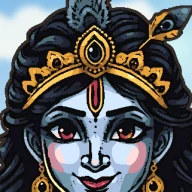
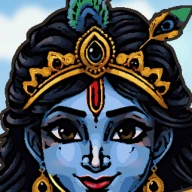
Painted place scenes and a repaired Krishna portrait (#3)
Place scenes repainted in a soft painted animation style with watercolour skies, clouds, meadows and comic ink outlines. Krishna's portrait rebuilt with a clear blue face and hands, natural eyes, coloured feathers and a long flute.

diff --git a/js/sketch.js b/js/sketch.js
@@ -1,33 +1,39 @@
-// Pencil-and-wash sketches of each place, composed from hand-drawn motifs.
-// Ink lines draw themselves in when the sketch opens.
+// Painted scenes of each place in a soft, hand-painted animation style:
+// watercolour skies and meadows, solid painted shapes with comic ink outlines.
+// Ink lines draw themselves in when the scene opens.
 
 import { PLACES } from './places.js';
 
 let seq = 0;
 let delay = 0;
+let gid = 'sk';
 
 const ink = (d, w = 1.6) => {
-  delay += 0.035;
-  return `<path class="ink" pathLength="1" d="${d}" stroke-width="${w}" style="animation-delay:${delay.toFixed(2)}s"/>`;
+  delay += 0.025;
+  return `<path class="ink" pathLength="1" d="${d}" fill="none" stroke="#2E2A26" stroke-width="${(w * 1.25).toFixed(2)}" style="animation-delay:${delay.toFixed(2)}s"/>`;
 };
-const wash = (d, color, op = 0.35) => `<path class="wash" d="${d}" fill="${color}" stroke="none" opacity="${op}"/>`;
+// White highlight strokes, for ripples on water.
+const shine = (d, w = 1.4) => `<path d="${d}" fill="none" stroke="#FFFFFF" stroke-width="${w}" stroke-linecap="round" opacity=".8"/>`;
+// A solid painted fill with a soft light from above.
+const wash = (d, color) => `<path class="wash" d="${d}" fill="${color}" stroke="none"/><path class="wash" d="${d}" fill="url(#${gid}-gl)" stroke="none"/>`;
 const at = (x, y, s, body, rot = 0) => `<g transform="translate(${x} ${y}) rotate(${rot}) scale(${s})">${body}</g>`;
 const circ = (cx, cy, r) => `M${cx - r} ${cy} a ${r} ${r} 0 1 0 ${2 * r} 0 a ${r} ${r} 0 1 0 ${-2 * r} 0`;
 const rect = (x, y, w, h) => `M${x} ${y} h${w} v${h} h${-w} Z`;
 
 const M = {
-  ground: () => wash('M0 156 C 60 150, 110 160, 170 154 S 280 150, 320 156 V180 H0 Z', '#C9A46A', 0.3)
-    + ink('M0 156 C 60 150, 110 160, 170 154 S 280 150, 320 156', 1.4)
-    + ink('M30 160 l3 -6 M36 161 l-1 -7 M120 158 l2 -6 M126 159 l-2 -6 M268 158 l3 -6 M300 160 l-1 -6', 1),
-  hills: () => wash('M0 122 C 40 98, 80 98, 120 118 C 150 102, 190 94, 230 114 C 260 102, 300 104, 320 114 V160 H0 Z', '#7BAF7B', 0.25)
+  ground: () => wash('M0 156 C 60 150, 110 160, 170 154 S 280 150, 320 156 V180 H0 Z', '#79B861')
+    + `<path d="M0 166 C 80 160, 160 170, 320 164 V180 H0 Z" fill="#5E9C4E"/>`
+    + `<g stroke="#3F7A3E" stroke-width="1.2" stroke-linecap="round" fill="none">${[18, 52, 96, 134, 188, 226, 262, 300].map((x, k) => `<path d="M${x} ${164 + (k % 2) * 6} q 1 -6 3 -8 M${x + 3} ${164 + (k % 2) * 6} q 0 -5 -3 -7"/>`).join('')}</g>`
+    + `<g>${[40, 112, 176, 244, 288].map((x, k) => `<circle cx="${x}" cy="${168 + (k % 2) * 5}" r="1.8" fill="${k % 2 ? '#F7B6C8' : '#FFF6E0'}"/>`).join('')}</g>`
+    + ink('M0 156 C 60 150, 110 160, 170 154 S 280 150, 320 156', 1.2),
+  hills: () => wash('M0 122 C 40 98, 80 98, 120 118 C 150 102, 190 94, 230 114 C 260 102, 300 104, 320 114 V160 H0 Z', '#8DC27A')
+    + `<g fill="#6EA862">${[[40, 114, 9], [52, 116, 7], [210, 108, 10], [224, 112, 7]].map(([x, y, r]) => `<circle cx="${x}" cy="${y}" r="${r}"/>`).join('')}</g>`
     + ink('M0 122 C 40 98, 80 98, 120 118 C 150 102, 190 94, 230 114 C 260 102, 300 104, 320 114', 1.1),
-  sun: (x, y, r = 14, low = false) => wash(circ(x, y, r + 6), low ? '#E9573F' : '#F2B632', 0.35)
-    + ink(circ(x, y, r), 1.5)
-    + ink(Array.from({ length: 8 }, (_, k) => {
-      const a = (k * Math.PI) / 4;
-      return `M${(x + (r + 4) * Math.cos(a)).toFixed(1)} ${(y + (r + 4) * Math.sin(a)).toFixed(1)} L${(x + (r + 10) * Math.cos(a)).toFixed(1)} ${(y + (r + 10) * Math.sin(a)).toFixed(1)}`;
-    }).join(' '), 1.2),
-  moon: (x, y) => wash(circ(x, y, 18), '#F6E7B0', 0.4) + ink(`M${x + 6} ${y - 15} A 16 16 0 1 0 ${x + 6} ${y + 15} A 12 12 0 1 1 ${x + 6} ${y - 15} Z`, 1.4),
+  sun: (x, y, r = 14, low = false) => `<circle cx="${x}" cy="${y}" r="${r * 3}" fill="url(#${gid}-glow)"/>`
+    + `<circle cx="${x}" cy="${y}" r="${r}" fill="${low ? '#FF9A5C' : '#FFE08A'}"/><circle cx="${x - r * 0.25}" cy="${y - r * 0.25}" r="${r * 0.6}" fill="${low ? '#FFC08A' : '#FFF4C8'}"/>`,
+  moon: (x, y) => `<circle cx="${x}" cy="${y}" r="40" fill="url(#${gid}-glow)"/>`
+    + `<path d="M${x + 6} ${y - 15} A 16 16 0 1 0 ${x + 6} ${y + 15} A 12 12 0 1 1 ${x + 6} ${y - 15} Z" fill="#FFF3C4"/>`
+    + `<g fill="#FFFFFF">${[[-120, -10], [-60, 20], [-160, 30], [30, 40], [-30, -20]].map(([dx, dy]) => `<circle cx="${x + dx}" cy="${y + dy}" r="1.3"/>`).join('')}</g>`,
   palace: (x, y, s = 1) => at(x, y, s, wash('M-60 0 V-40 H60 V0 Z M-24 -40 Q-24 -70 0 -78 Q24 -70 24 -40 Z', '#E9B949', 0.35)
     + ink('M-60 0 V-40 H60 V0 M-66 0 H66 M-70 5 H70')
     + ink('M-24 -40 Q-24 -70 0 -78 Q24 -70 24 -40 M0 -78 V-81 M-3.5 -81 Q0 -88 3.5 -81 Z M0 -86 V-92')
@@ -57,16 +63,18 @@ const M = {
   temple: (x, y, s = 1) => at(x, y, s, wash('M-22 0 V-18 H22 V0 Z M-18 -18 C -18 -40, -8 -58, 0 -64 C 8 -58, 18 -40, 18 -18 Z', '#E8893A', 0.35)
     + ink('M-22 0 V-18 H22 V0 M-26 0 H26 M-6 0 V-10 Q0 -15 6 -10 V0')
     + ink('M-18 -18 C -18 -40, -8 -58, 0 -64 C 8 -58, 18 -40, 18 -18 M-16 -30 H16 M-12 -44 H12 M-6 -64 H6 M0 -64 V-74 M0 -74 L10 -71 L0 -68', 1.4)),
-  river: (y) => wash(`M0 ${y - 4} C 40 ${y - 10}, 80 ${y + 2}, 120 ${y - 4} S 200 ${y - 10}, 240 ${y - 4} S 300 ${y + 2}, 320 ${y - 4} V180 H0 Z`, '#5FA8CC', 0.35)
-    + [0, 12, 24].map((d) => ink(`M0 ${y + d} C 40 ${y + d - 6}, 80 ${y + d + 6}, 120 ${y + d} S 200 ${y + d - 6}, 240 ${y + d} S 300 ${y + d + 6}, 320 ${y + d}`, 1.1)).join(''),
+  river: (y) => `<path d="M0 ${y - 4} C 40 ${y - 10}, 80 ${y + 2}, 120 ${y - 4} S 200 ${y - 10}, 240 ${y - 4} S 300 ${y + 2}, 320 ${y - 4} V180 H0 Z" fill="url(#${gid}-water)"/>`
+    + ink(`M0 ${y - 4} C 40 ${y - 10}, 80 ${y + 2}, 120 ${y - 4} S 200 ${y - 10}, 240 ${y - 4} S 300 ${y + 2}, 320 ${y - 4}`, 1.1)
+    + [8, 20, 32].map((d, k) => shine(`M${20 + k * 30} ${y + d} q 10 -4 20 0 M${150 + k * 20} ${y + d + 3} q 12 -4 24 0 M${250 - k * 10} ${y + d} q 9 -3 18 0`)).join(''),
   lotus: (x, y, s = 1) => at(x, y, s, wash('M0 0 C -10 -4, -18 -12, -20 -20 C -10 -18, -6 -22, 0 -26 C 6 -22, 10 -18, 20 -20 C 18 -12, 10 -4, 0 0 Z', '#E86A8E', 0.45)
     + ink('M0 0 C -6 -8, -6 -18, 0 -26 C 6 -18, 6 -8, 0 0 M0 0 C -10 -4, -18 -12, -20 -20 C -10 -18, -4 -10, 0 0 M0 0 C 10 -4, 18 -12, 20 -20 C 10 -18, 4 -10, 0 0 M-22 4 C -10 8, 10 8, 22 4', 1.3)),
   fishTarget: (x, y, s = 1) => at(x, y, s, ink('M0 60 V16')
     + ink(`${circ(0, 0, 16)} M-16 0 H16 M0 -16 V16 M-11 -11 L11 11 M11 -11 L-11 11`, 1.2)
     + wash('M-14 -24 C -6 -32, 8 -32, 14 -24 C 8 -18, -6 -18, -14 -24 Z', '#5FA8CC', 0.5)
     + ink('M-14 -24 C -6 -32, 8 -32, 14 -24 C 8 -18, -6 -18, -14 -24 Z M14 -24 L22 -30 L22 -18 Z M-8 -25 l0.1 0', 1.3)),
-  pool: (x, y) => wash(`M${x - 62} ${y} C ${x - 62} ${y - 12}, ${x + 62} ${y - 12}, ${x + 62} ${y} C ${x + 62} ${y + 12}, ${x - 62} ${y + 12}, ${x - 62} ${y} Z`, '#5FA8CC', 0.4)
-    + ink(`M${x - 62} ${y} C ${x - 62} ${y - 12}, ${x + 62} ${y - 12}, ${x + 62} ${y} C ${x + 62} ${y + 12}, ${x - 62} ${y + 12}, ${x - 62} ${y} Z M${x - 30} ${y} q 8 -3 16 0 M${x + 10} ${y + 2} q 8 -3 16 0`, 1.2),
+  pool: (x, y) => `<path d="M${x - 62} ${y} C ${x - 62} ${y - 12}, ${x + 62} ${y - 12}, ${x + 62} ${y} C ${x + 62} ${y + 12}, ${x - 62} ${y + 12}, ${x - 62} ${y} Z" fill="url(#${gid}-water)"/>`
+    + ink(`M${x - 62} ${y} C ${x - 62} ${y - 12}, ${x + 62} ${y - 12}, ${x + 62} ${y} C ${x + 62} ${y + 12}, ${x - 62} ${y + 12}, ${x - 62} ${y} Z`, 1.2)
+    + shine(`M${x - 30} ${y} q 8 -3 16 0 M${x + 10} ${y + 2} q 8 -3 16 0`),
   bow: (x, y, s = 1) => at(x, y, s, ink('M-4 -36 C 22 -18, 22 18, -4 36', 2) + ink('M-4 -36 L -4 36', 0.9) + ink('M-26 0 H 26 M20 -5 L27 0 L20 5 M-26 0 l-5 -4 M-26 0 l-5 4', 1.3)),
   cow: (x, y, s = 1) => at(x, y - 12 * s, s, wash('M-26 -10 C -26 -26, 18 -28, 22 -14 C 24 -6, 18 -2, 14 -2 H-20 C -26 -2, -27 -6, -26 -10 Z', '#FBF3E0', 0.9)
     + ink('M-26 -10 C -26 -26, 18 -28, 22 -14 C 24 -6, 18 -2, 14 -2 H-20 C -26 -2, -27 -6, -26 -10 Z')
@@ -109,8 +117,8 @@ const M = {
   pot: (x, y, s = 1) => at(x, y, s, wash('M-26 -38 C -30 -10, -20 0, 0 0 C 20 0, 30 -10, 26 -38 Z', '#B87A14', 0.4)
     + ink('M-26 -38 C -30 -10, -20 0, 0 0 C 20 0, 30 -10, 26 -38 M-30 -40 H30 M-28 -24 H28')
     + wash('M-20 -40 C -14 -56, 14 -56, 20 -40 Z', '#FBF3E0', 0.8) + ink('M-20 -40 C -14 -56, 14 -56, 20 -40', 1.2)),
-  field: () => wash('M0 120 H320 V180 H0 Z', '#C9A46A', 0.3) + ink('M0 120 H320', 1.2)
-    + ink([-140, -80, -30, 20, 70, 130, 200].map((d) => `M${160 + d * 2.2} 180 L ${160 + d * 0.4} 122`).join(' '), 1),
+  field: () => wash('M0 120 H320 V180 H0 Z', '#E6C46A') + ink('M0 120 H320', 1.2)
+    + `<g stroke="#C79A3E" stroke-width="3" opacity=".6">${[-140, -80, -30, 20, 70, 130, 200].map((d) => `<path d="M${160 + d * 2.2} 180 L ${160 + d * 0.4} 122"/>`).join('')}</g>`,
   pillars: () => ink('M20 40 H300 M20 46 H300 M20 160 H300', 1.4)
     + ink([40, 100, 220, 280].map((x) => `M${x} 46 V160 M${x + 10} 46 V160 M${x - 4} 52 H${x + 14} M${x - 4} 154 H${x + 14}`).join(' '), 1.2)
     + ink('M50 46 Q 75 70 100 46 M230 46 Q 255 70 280 46', 1),
@@ -125,11 +133,11 @@ const M = {
     + ink('M-62 -30 C -42 -72, 42 -72, 62 -30 C 30 -36, -30 -36, -62 -30 Z M-30 -50 l 4 -8 l 4 8 M10 -56 l 4 -8 l 4 8 M34 -44 l 3 -6 l 3 6')
     + ink('M0 -32 V 34 M-4 34 H4', 1.6)
     + ink('M-40 30 q 4 -10 8 0 M-24 32 q 4 -10 8 0 M20 32 q 4 -10 8 0 M36 30 q 4 -10 8 0', 1.2)),
-  confluence: () => wash('M0 30 C 80 60, 120 100, 150 180 H190 C 200 100, 260 50, 320 30 V 0 H 300 C 240 30, 190 70, 170 130 C 150 80, 80 30, 0 0 Z', '#5FA8CC', 0.35)
+  confluence: () => `<path d="M0 30 C 80 60, 120 100, 150 180 H190 C 200 100, 260 50, 320 30 V 0 H 300 C 240 30, 190 70, 170 130 C 150 80, 80 30, 0 0 Z" fill="url(#${gid}-water)"/>`
     + ink('M0 30 C 80 60, 120 100, 150 180 M0 0 C 80 30, 150 80, 170 130 M320 30 C 260 50, 200 100, 190 180 M300 0 C 240 30, 190 70, 170 130', 1.2)
     + ink('M150 150 q 8 -4 16 0 M160 120 q 6 -3 12 0', 0.9),
-  sea: (y) => wash(`M0 ${y} H320 V180 H0 Z`, '#2B7FA6', 0.3)
-    + [0, 14, 28].map((d) => ink(Array.from({ length: 9 }, (_, k) => `M${k * 36 + (d % 28 ? 18 : 0)} ${y + d} q 9 -8 18 0 q 6 4 12 0`).join(' '), 1)).join(''),
+  sea: (y) => `<path d="M0 ${y} H320 V180 H0 Z" fill="url(#${gid}-water)"/>` + ink(`M0 ${y} H320`, 1.1)
+    + [8, 20, 32].map((d) => shine(Array.from({ length: 9 }, (_, k) => `M${k * 36 + (d % 24 ? 18 : 0)} ${y + d} q 9 -6 18 0`).join(' '))).join(''),
   boat: (x, y, s = 1) => at(x, y, s, wash('M-24 0 C -16 8, 16 8, 24 0 Z M0 -30 L 18 -8 H0 Z', '#FBF3E0', 0.9) + ink('M-24 0 C -16 8, 16 8, 24 0 Z M0 0 V-30 M0 -30 L 18 -8 H0', 1.3)),
   diya: (x, y, s = 1) => at(x, y, s, wash('M-20 0 C -14 10, 14 10, 20 0 Z', '#B87A14', 0.5)
     + ink('M-20 0 C -14 10, 14 10, 20 0 Z')
@@ -144,23 +152,40 @@ const M = {
     + ink('M-12 0 V-18 Q0 -30 12 -18 V0 M-60 -40 V-56 H-44 V-40 M60 -40 V-56 H44 V-40', 1.3)),
 };
 
+// A puffy cloud with a flat, shaded underside.
+const cloud = (x, y, k) => `<g transform="translate(${x} ${y}) scale(${k})" class="sk-cloud">
+  <g fill="#FFFFFF"><circle cx="14" cy="16" r="10"/><circle cx="28" cy="10" r="13"/><circle cx="44" cy="8" r="15"/><circle cx="58" cy="14" r="11"/><rect x="4" y="14" width="64" height="12" rx="6"/></g>
+  <path d="M8 24 H66" stroke="#DCE8F3" stroke-width="4" stroke-linecap="round"/></g>`;
+
+const SKIES = {
+  day: ['#7DB9E3', '#BFE0F2', '#FFF0D2'],
+  sunset: ['#8FB8E0', '#F7C8A8', '#FFB38A'],
+  dusk: ['#8A93D8', '#D9A6CF', '#FFD3A8'],
+};
+
 export function sketch(index, tint = '#E9C46A') {
   const place = PLACES[index];
   if (!place) return '';
-  const id = `sk${++seq}`;
+  gid = `sk${++seq}`;
   delay = 0;
+  const names = place.scene.map((m) => m[0]);
+  const mode = names.includes('moon') ? 'dusk' : place.scene.some((m) => m[0] === 'sun' && m[4]) ? 'sunset' : 'day';
+  const [top, mid, low] = SKIES[mode];
+  const grounded = names.some((n) => ['ground', 'river', 'sea', 'field', 'confluence', 'pillars'].includes(n));
   const body = place.scene.map(([name, ...args]) => (M[name] ? M[name](...args) : '')).join('');
-  return `<svg class="sketch" viewBox="0 0 320 180" role="img" aria-label="Sketch">
+  return `<svg class="sketch" viewBox="0 0 320 180" role="img" aria-label="${place.why ? 'Painting of the place' : 'Painting'}">
     <defs>
-      <filter id="${id}-r" x="-5%" y="-5%" width="110%" height="110%"><feTurbulence type="fractalNoise" baseFrequency="0.04" numOctaves="2" seed="${index + 3}"/><feDisplacementMap in="SourceGraphic" scale="2.4"/></filter>
-      <filter id="${id}-p"><feTurbulence type="fractalNoise" baseFrequency=".85" numOctaves="2" seed="7"/><feColorMatrix values="0 0 0 0 .45  0 0 0 0 .33  0 0 0 0 .18  0 0 0 .09 0"/></filter>
-      <radialGradient id="${id}-t" cx="50%" cy="38%" r="60%"><stop offset="0" stop-color="${tint}" stop-opacity=".28"/><stop offset="1" stop-color="${tint}" stop-opacity="0"/></radialGradient>
-      <radialGradient id="${id}-v" cx="50%" cy="50%" r="70%"><stop offset=".6" stop-color="#000" stop-opacity="0"/><stop offset="1" stop-color="#5A3A14" stop-opacity=".22"/></radialGradient>
+      <linearGradient id="${gid}-sky" x1="0" y1="0" x2="0" y2="1"><stop offset="0" stop-color="${top}"/><stop offset=".6" stop-color="${mid}"/><stop offset="1" stop-color="${low}"/></linearGradient>
+      <linearGradient id="${gid}-gl" x1="0" y1="0" x2="0" y2="1"><stop offset="0" stop-color="#FFFFFF" stop-opacity=".38"/><stop offset=".55" stop-color="#FFFFFF" stop-opacity="0"/><stop offset="1" stop-color="#2E2A26" stop-opacity=".12"/></linearGradient>
+      <linearGradient id="${gid}-water" x1="0" y1="0" x2="0" y2="1"><stop offset="0" stop-color="#BFE3F2"/><stop offset="1" stop-color="#4F9FC4"/></linearGradient>
+      <radialGradient id="${gid}-glow"><stop offset="0" stop-color="#FFF6D6" stop-opacity=".95"/><stop offset=".4" stop-color="#FFE8A8" stop-opacity=".45"/><stop offset="1" stop-color="#FFE8A8" stop-opacity="0"/></radialGradient>
+      <radialGradient id="${gid}-t" cx="50%" cy="40%" r="65%"><stop offset="0" stop-color="${tint}" stop-opacity=".18"/><stop offset="1" stop-color="${tint}" stop-opacity="0"/></radialGradient>
     </defs>
-    <rect width="320" height="180" fill="#F6EAD0"/>
-    <rect width="320" height="180" fill="url(#${id}-t)"/>
-    <g filter="url(#${id}-r)" fill="none" stroke="#4A3826" stroke-linecap="round" stroke-linejoin="round">${body}</g>
-    <rect width="320" height="180" filter="url(#${id}-p)"/>
-    <rect width="320" height="180" fill="url(#${id}-v)"/>
+    <rect width="320" height="180" fill="url(#${gid}-sky)"/>
+    <rect width="320" height="180" fill="url(#${gid}-t)"/>
+    ${cloud(18, 18, 0.9)}${cloud(196, 8, 0.7)}${cloud(250, 52, 0.5)}
+    <path d="M0 132 C 50 112, 100 120, 150 108 S 250 100, 320 118 V180 H0 Z" fill="#9CC9B4" opacity=".75"/>
+    ${grounded ? '' : `<path d="M0 150 C 70 140, 150 152, 220 144 S 300 142, 320 146 V180 H0 Z" fill="#86BF6C"/><path d="M0 166 C 90 158, 200 170, 320 162 V180 H0 Z" fill="#6AAA58"/>${[40, 120, 200, 280].map((x, k) => `<circle cx="${x}" cy="${168 + (k % 2) * 4}" r="1.8" fill="${k % 2 ? '#F7B6C8' : '#FFF6E0'}"/>`).join('')}`}
+    <g stroke-linecap="round" stroke-linejoin="round">${body}</g>
   </svg>`;
 }

diff --git a/css/style.css b/css/style.css
@@ -1008,11 +1008,13 @@ body:not(.online) .online-only { display: none !important; }
 .seg-btn.solo[aria-pressed="true"] { background: var(--leaf-soft); color: #2F5E2C; }
 
 /* place sheet */
-.place .sketch-wrap { position: relative; background: #F6EAD0; }
+.place .sketch-wrap { position: relative; background: #BFE0F2; border-bottom: 3px solid var(--outline); }
 .sketch { display: block; width: 100%; height: auto; }
 .sketch .ink { stroke-dasharray: 1; stroke-dashoffset: 1; animation: draw .9s ease-out forwards; }
 .sketch .ink.dash { stroke-dasharray: .02 .02; stroke-dashoffset: 0; animation: none; }
-.sketch .wash { animation: wash 1.6s ease-out both; }
+.sketch .wash { animation: wash .7s ease-out both; }
+.sketch .sk-cloud { animation: sk-drift 14s ease-in-out infinite alternate; }
+@keyframes sk-drift { to { translate: 12px 0; } }
 @keyframes draw { to { stroke-dashoffset: 0; } }
 @keyframes wash { from { opacity: 0; } }
 .place-band { position: absolute; left: 0; right: 0; bottom: 0; height: 7px; }

diff --git a/README.md b/README.md
@@ -21,7 +21,7 @@ It is designed for every screen: a two-column table on desktops, a stacked layou
 - **Comic panels**: rent, exile, full sets, cards, trades and victories pop up as comic panels with speech bubbles in each character's voice and bold sound-effect bursts.
 - **Motion**: 3D dice tumble and settle, tokens hop tile by tile with a puff of dust, gold floats up as it changes hands, owner seals stamp onto claimed land, temples rise, and petals fall when someone completes a set or wins. A Build button appears when you can raise temples.
 - **Your pace**: choose Relaxed, Normal or Fast game speed from the menu. Reduced-motion settings are respected.
-- **Stories**: tap any tile to see a pencil-and-wash sketch of the place drawn in front of you, and read the story from the epic of why it matters.
+- **Stories**: tap any tile to see a painted scene of the place, with its ink outlines drawing in, and read the story from the epic of why it matters.
 - Synthesised sounds, optional ambient music (a tanpura drone with a bamboo flute in raga Bhupali) and, on phones, light haptic feedback.
 
 ## The characters
